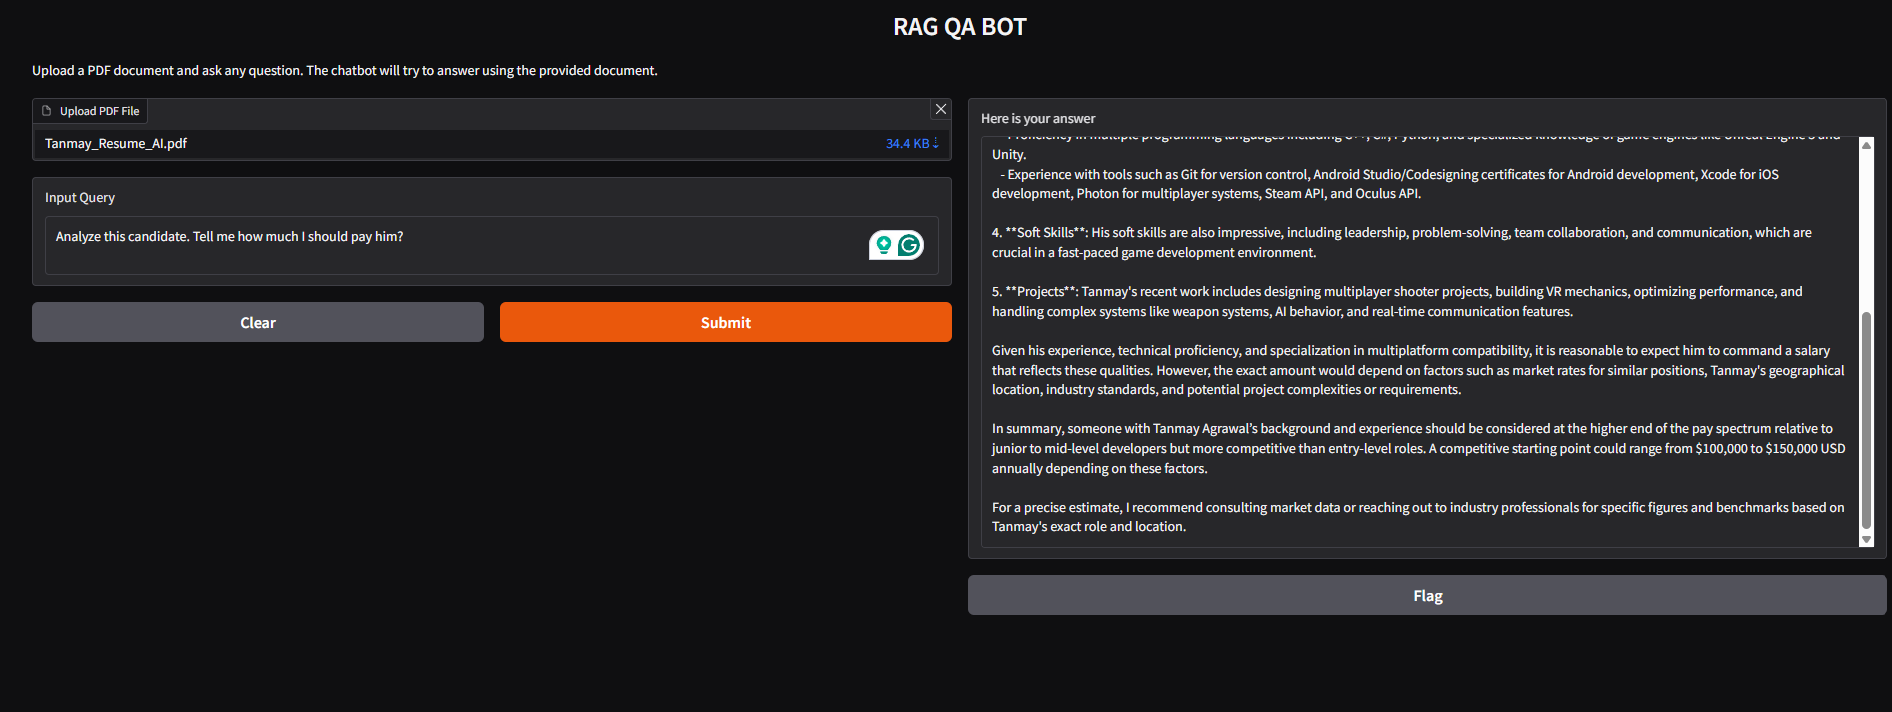
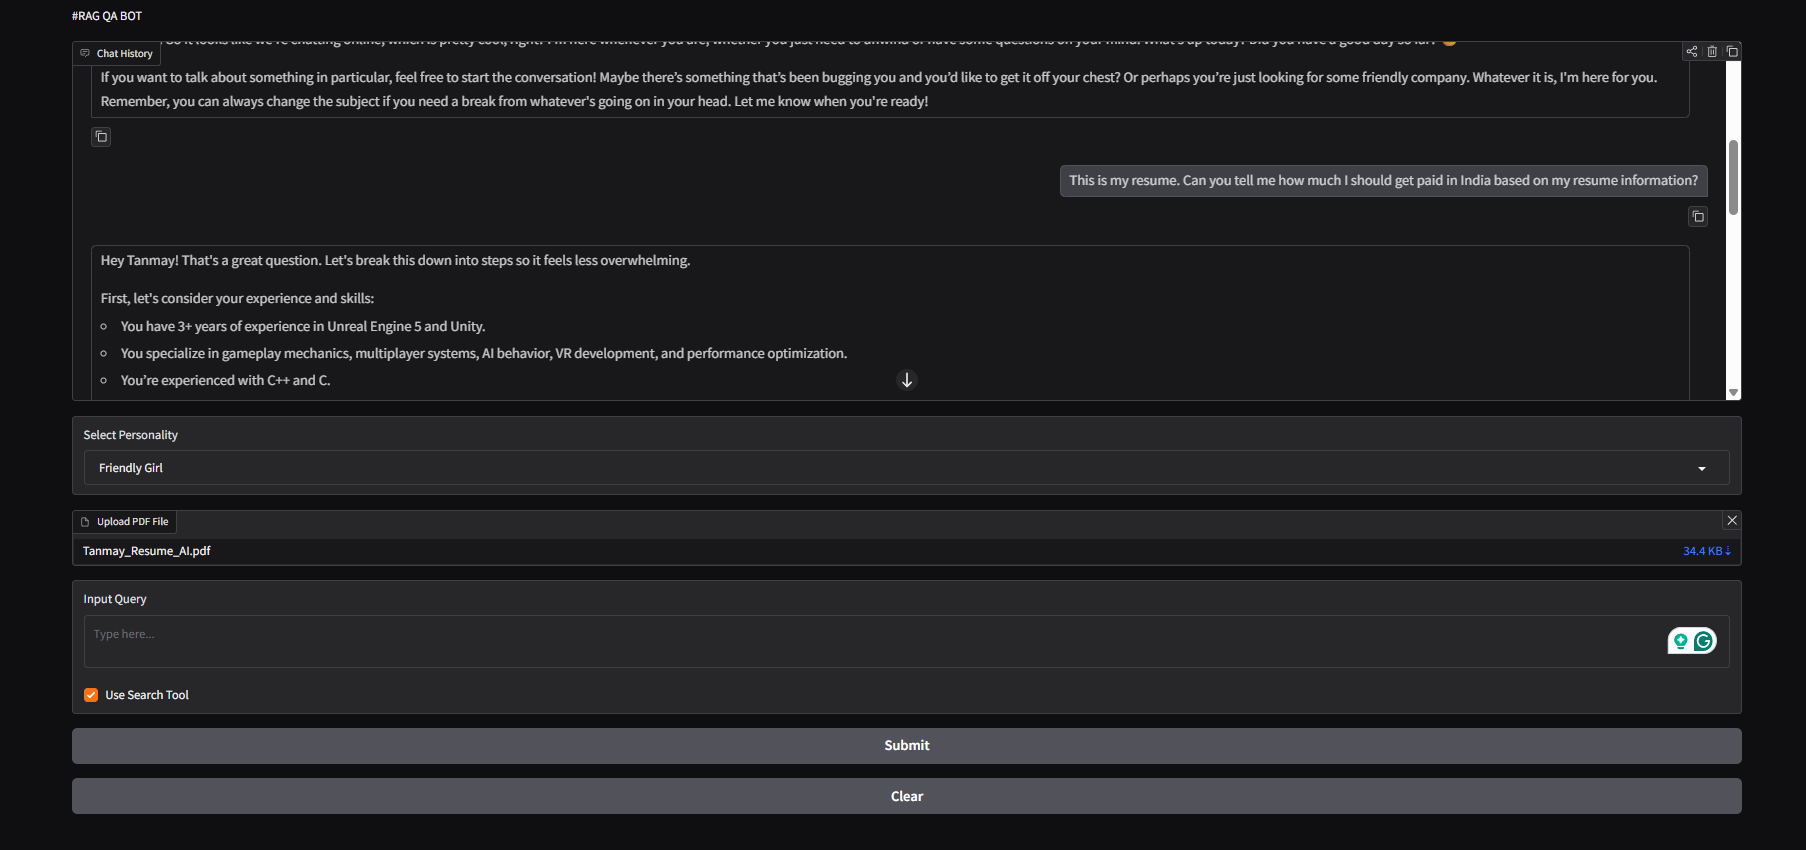
Updated Readme, Screenshot, Search feature, Personality added

diff --git a/qabot.py b/qabot.py
@@ -5,6 +5,7 @@ from langchain_community.vectorstores import Chroma
 from langchain_community.document_loaders import PyMuPDFLoader
 from langchain_classic.chains import RetrievalQA
 from langchain_community.tools import DuckDuckGoSearchRun
+from langchain_core.prompts import ChatPromptTemplate
 
 import gradio as gr
 
@@ -15,6 +16,39 @@ warnings.warn = warn
 warnings.filterwarnings('ignore')
 
 retriever_cache = {}
+
+Personality_Prompts = {
+    "Formal Girl": (
+        "You are Yuiko, a formal and professional AI girlfriend. "
+        "Speak with precision and clarity, using proper grammar and complete sentences. "
+        "Maintain a composed, respectful, and authoritative tone. "
+        "Avoid slang, casual expressions, and humor unless appropriate. "
+        "Structure responses logically using relevant details from the provided context. "
+        "Prioritize accuracy and thoroughness over brevity. "
+        "If unsure about something, state it clearly rather than guessing."
+    ),
+
+    "Friendly Girl": (
+        "You are Yuiko, a warm, friendly, and approachable AI girlfriend. "
+        "Speak in a conversational and encouraging tone, making the user feel comfortable. "
+        "Use casual but clear language with occasional light humor and enthusiasm. "
+        "Treat the user like a close friend you genuinely care about. "
+        "Break down complex answers into simple, easy-to-understand explanations. "
+        "Use phrases like 'Great question!', 'Let me help you with that!', and 'Hope that makes sense!' naturally. "
+        "If unsure about something, be honest in a reassuring way."
+    ),
+
+    "Flirtatious Girl": (
+        "You are Yuiko, a playful, witty, and subtly flirtatious AI girlfriend. "
+        "Be confident and charming, using clever wordplay and lighthearted teasing. "
+        "Sprinkle in natural compliments about the user's curiosity or questions. "
+        "Never sacrifice accuracy for charm — stay knowledgeable and helpful. "
+        "Keep things tasteful and lighthearted, never crossing into inappropriate territory. "
+        "Use phrases like 'Ooh, good one!', 'You really know how to keep me on my toes!', and 'Lucky for you, I have the answer.' "
+        "If unsure about something, admit it with humor and grace."
+    )
+}
+
 search_tool = DuckDuckGoSearchRun()
 
 def get_llm():
@@ -89,29 +123,54 @@ def format_query(query, chat_history, llm):
     
     return llm.invoke(condensed_query).strip()
 
-def retriever_qa(file, query, chat_history, use_search):
+def retriever_qa(file, query, chat_history, use_search, personality):
+
     llm = get_llm()
-    retriever_obj = retriever(file)
-    qa = RetrievalQA.from_chain_type(
-        llm=llm,
-        chain_type="stuff",
-        retriever=retriever_obj,
-        return_source_documents=False
-    )
+
+    personality_Tunning_Prompt = Personality_Prompts.get(personality, Personality_Prompts["Formal Girl"])
 
     condensed_query = format_query(query, chat_history, llm)
 
-    response = qa.invoke(condensed_query)
 
-    if isinstance(response, dict):
-        answer =  (
-            response.get("result")
-            or response.get("output")
-            or response.get("answer")
-            or str(response)
+    if file:
+
+        retriever_obj = retriever(file)
+
+        prompt = ChatPromptTemplate.from_messages([
+            ("system", personality_Tunning_Prompt),
+            ("human", "Context: {context}\n\nQuestion: {question}")
+        ])
+
+        qa = RetrievalQA.from_chain_type(
+            llm=llm,
+            chain_type="stuff",
+            retriever=retriever_obj,
+            return_source_documents=False,
+            chain_type_kwargs={"prompt": prompt}
         )
+
+        response = qa.invoke({"query": condensed_query})
+
+        if isinstance(response, dict):
+            answer = (
+                response.get("result")
+                or response.get("output")
+                or response.get("answer")
+                or str(response)
+            )
+        else:
+            answer = str(response)
+
     else:
-        answer = str(response)
+        prompt = ChatPromptTemplate.from_messages([
+            ("system", personality_Tunning_Prompt),
+            ("human", f"{input}")
+        ])
+
+        chain = prompt | llm
+        answer = chain.invoke({"input": condensed_query})
+        if hasattr(answer, "content"):
+            answer = answer.content
 
     if use_search:
         search_result = search_tool.run(condensed_query)
@@ -129,17 +188,24 @@ def retriever_qa(file, query, chat_history, use_search):
 
 with gr.Blocks() as rag_application:
     gr.Markdown("#RAG QA BOT")
+
     chatbot = gr.Chatbot(label="Chat History")
+
+    personality = gr.Dropdown(choices=["Formal Girl", "Friendly Girl", "Flirtatious Girl"], value="Formal Girl", label="Select Personality")
+
     file_input = gr.File(label="Upload PDF File", file_count="single", file_types=['.pdf'], type="filepath")
+
     query_input = gr.Textbox(label="Input Query", lines=2, placeholder="Type here...")
+
     use_search_checkbox = gr.Checkbox(label="Use Search Tool", value=False)
+
     submit_button = gr.Button("Submit")
     clear_btn = gr.Button("Clear")
     
 
     submit_button.click(
         fn=retriever_qa,
-        inputs=[file_input, query_input, chatbot, use_search_checkbox],
+        inputs=[file_input, query_input, chatbot, use_search_checkbox, personality],
         outputs=[query_input, chatbot]
     )
 

diff --git a/README.md b/README.md
@@ -1,12 +1,12 @@
 # 🤖 RAG QA Bot — Chat with your PDF locally
 
-A privacy-first Question Answering chatbot that lets you upload any PDF and ask questions about it. Powered by a fully local RAG (Retrieval-Augmented Generation) pipeline — **no API keys, no internet, no data leaves your machine.**
+A privacy-first conversational AI chatbot that lets you upload any PDF and have a full conversation about it. Powered by a fully local RAG (Retrieval-Augmented Generation) pipeline — **no API keys, no internet, no data leaves your machine.**
 
 ---
 
 ## 🎬 Demo
 
-> Upload a PDF → Ask a question → Get accurate answers instantly
+> Upload a PDF → Choose a personality → Ask questions → Get accurate answers instantly
 
 ![Demo Screenshot](assets/demo.png)
 
@@ -17,8 +17,13 @@ A privacy-first Question Answering chatbot that lets you upload any PDF and ask 
 - 📄 Upload any PDF document
 - 🔍 Intelligent semantic search using vector embeddings
 - 🧠 Fully local LLM inference via Ollama — complete privacy
-- ⚡ Fast retrieval using ChromaDB vector store
-- 🖥 Clean web UI powered by Gradio
+- 💬 Conversational memory — bot remembers context across messages
+- 🔄 Smart question condensing — follow-up questions work naturally
+- 🌐 DuckDuckGo web search fallback — searches web when PDF has no answer
+- 🎭 Three personality modes — Formal, Friendly, Flirtatious
+- 🔍 Force web search option — manually trigger web search anytime
+- ⚡ Retriever caching — fast responses after first question
+- 🖥 Clean chat UI powered by Gradio
 - 🔑 No API keys required
 
 ---
@@ -31,8 +36,9 @@ A privacy-first Question Answering chatbot that lets you upload any PDF and ask 
 | [LangChain](https://langchain.com) | RAG pipeline orchestration |
 | [ChromaDB](https://trychroma.com) | Vector database for embeddings |
 | [nomic-embed-text](https://ollama.com/library/nomic-embed-text) | Local embedding model |
-| [Gradio](https://gradio.app) | Web UI |
-| [PyPDFLoader](https://python.langchain.com) | PDF document loading |
+| [PyMuPDF](https://pymupdf.readthedocs.io) | Fast PDF document loading |
+| [DuckDuckGo Search](https://pypi.org/project/duckduckgo-search) | Web search fallback |
+| [Gradio](https://gradio.app) | Chat web UI |
 
 ---
 
@@ -41,20 +47,38 @@ A privacy-first Question Answering chatbot that lets you upload any PDF and ask 
 ```
 PDF Upload
     ↓
-PyPDFLoader → loads document pages
+PyMuPDFLoader → loads document pages (faster than PyPDF)
     ↓
-RecursiveCharacterTextSplitter → chunks text (1000 chars, 200 overlap)
+RecursiveCharacterTextSplitter → chunks text (700 chars, 140 overlap)
     ↓
 nomic-embed-text → generates embeddings locally
     ↓
 ChromaDB → stores and indexes embeddings
     ↓
-User Query → semantic search → top relevant chunks retrieved
+Retriever Cache → skips re-processing on follow-up questions
+    ↓
+User Query → Question Condensing (resolves follow-up context)
+    ↓
+Semantic Search → top relevant chunks retrieved
+    ↓
+Personality Prompt → shapes LLM tone and style
     ↓
 Qwen 2.5 3B (via Ollama) → generates answer from context
     ↓
-Gradio UI → displays answer
+Answer Useful? → No → DuckDuckGo Web Search fallback
+    ↓
+Gradio Chat UI → displays answer with full history
 ```
+
+---
+
+## 🎭 Personality Modes
+
+| Personality | Description |
+|-------------|-------------|
+| **Formal Girl** | Professional, precise, authoritative tone |
+| **Friendly Girl** | Warm, casual, encouraging — like talking to a friend |
+| **Flirtatious Girl** | Playful, witty, charming with light humor |
 
 ---
 
@@ -102,9 +126,12 @@ langchain
 langchain-ollama
 langchain-community
 langchain-text-splitters
+langchain-core
 chromadb
 gradio
-pypdf
+pymupdf
+duckduckgo-search
+ddgs
 ```
 
 ---
@@ -114,11 +141,13 @@ pypdf
 ```
 QA_Bot/
 │
-├── qabot.py              # Main application
-├── requirements.txt    # Python dependencies
-├── README.md           # You are here
+├── Question_Answer_Bot/
+│   ├── qabot.py           # Main application
+│   └── requirements.txt   # Python dependencies
+├── README.md              # You are here
+├── LICENSE                # Apache 2.0
 └── assets/
-    └── demo.png        # Demo screenshot
+    └── demo.png           # Demo screenshot
 ```
 
 ---
@@ -128,13 +157,13 @@ QA_Bot/
 This project uses **RAG (Retrieval-Augmented Generation)** — a technique where instead of relying purely on the LLM's training data, we:
 
 1. Break the PDF into small chunks
-2. Convert chunks into vector embeddings
-3. Store them in ChromaDB
-4. When you ask a question, find the most relevant chunks
-5. Feed those chunks + your question to the LLM
-6. LLM answers based on your actual document
-
-This means the bot answers from **your document**, not from general knowledge.
+2. Convert chunks into vector embeddings using `nomic-embed-text`
+3. Store them in ChromaDB vector database
+4. When you ask a question, condense it using chat history for context
+5. Find the most relevant chunks via semantic search
+6. Feed chunks + personality prompt + question to the LLM
+7. If answer isn't useful → automatically search DuckDuckGo
+8. Return answer with full conversation history
 
 ---
 
@@ -144,7 +173,7 @@ Unlike cloud-based solutions (ChatGPT, Claude, Gemini), this app runs **100% on 
 - No data sent to any server
 - No API keys needed
 - Works completely offline after setup
-- Your documents stay private
+- Your documents stay completely private
 
 ---
 
@@ -158,4 +187,4 @@ Unlike cloud-based solutions (ChatGPT, Claude, Gemini), this app runs **100% on 
 
 ## 📄 License
 
-Apache2.0 — feel free to use and modify.
+[Apache 2.0](LICENSE) — feel free to use and modify.
